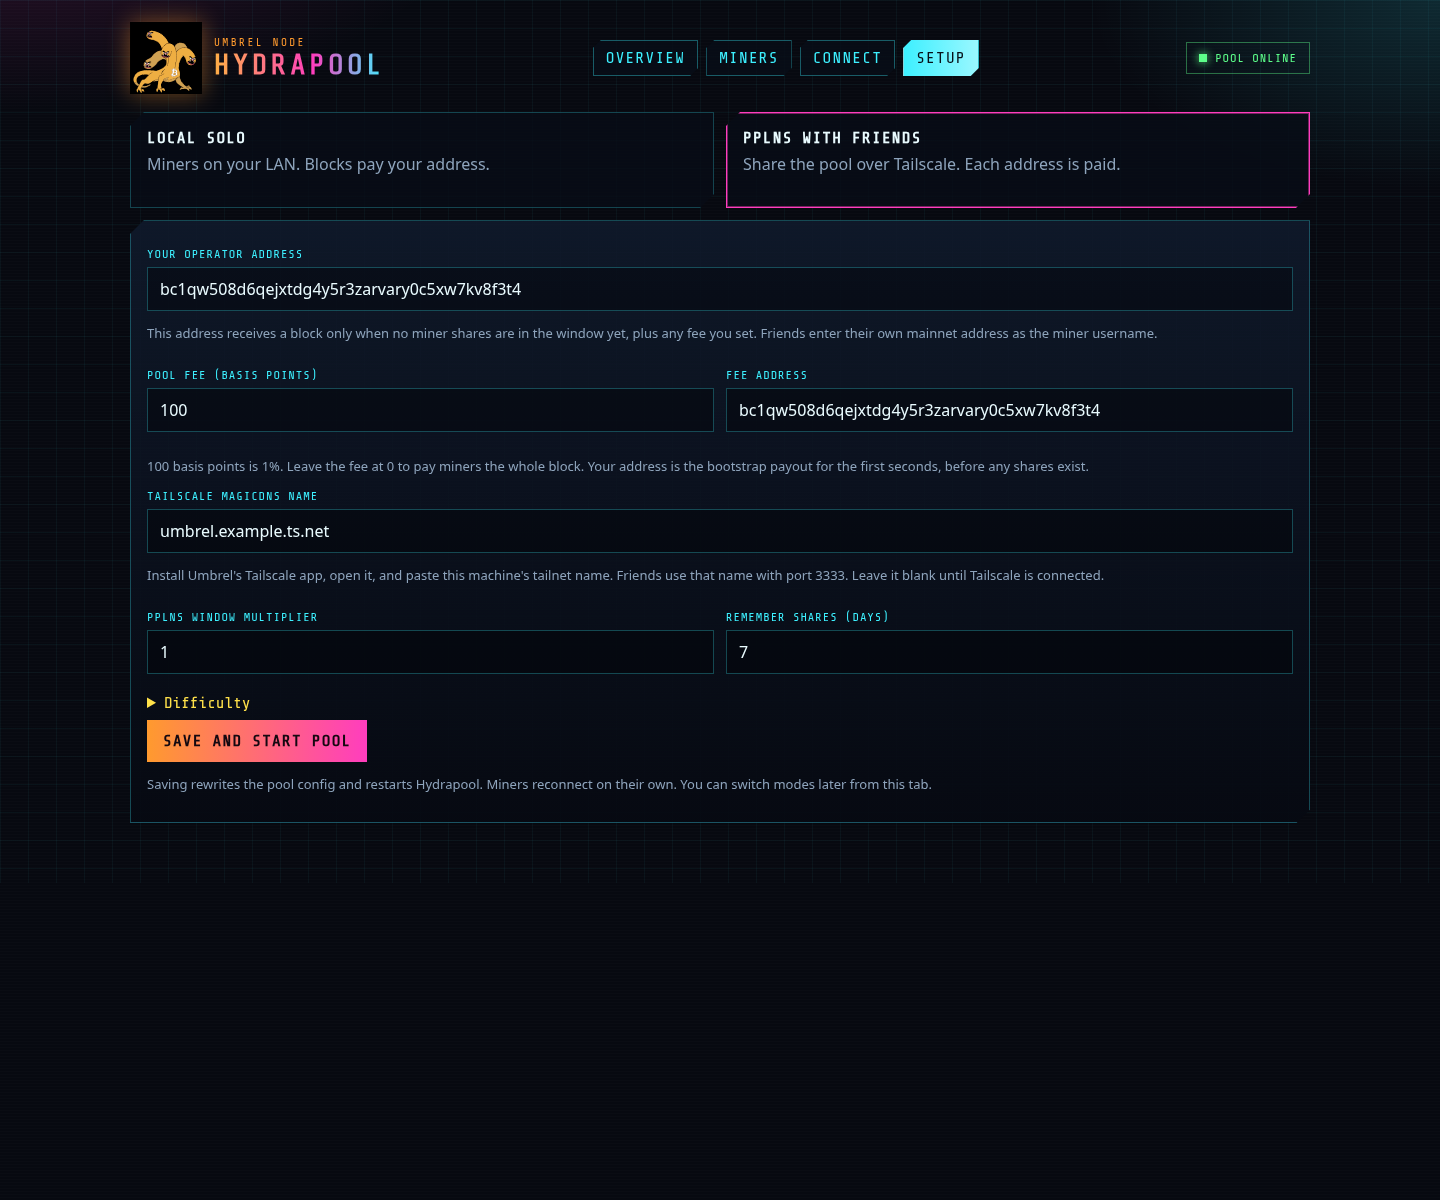
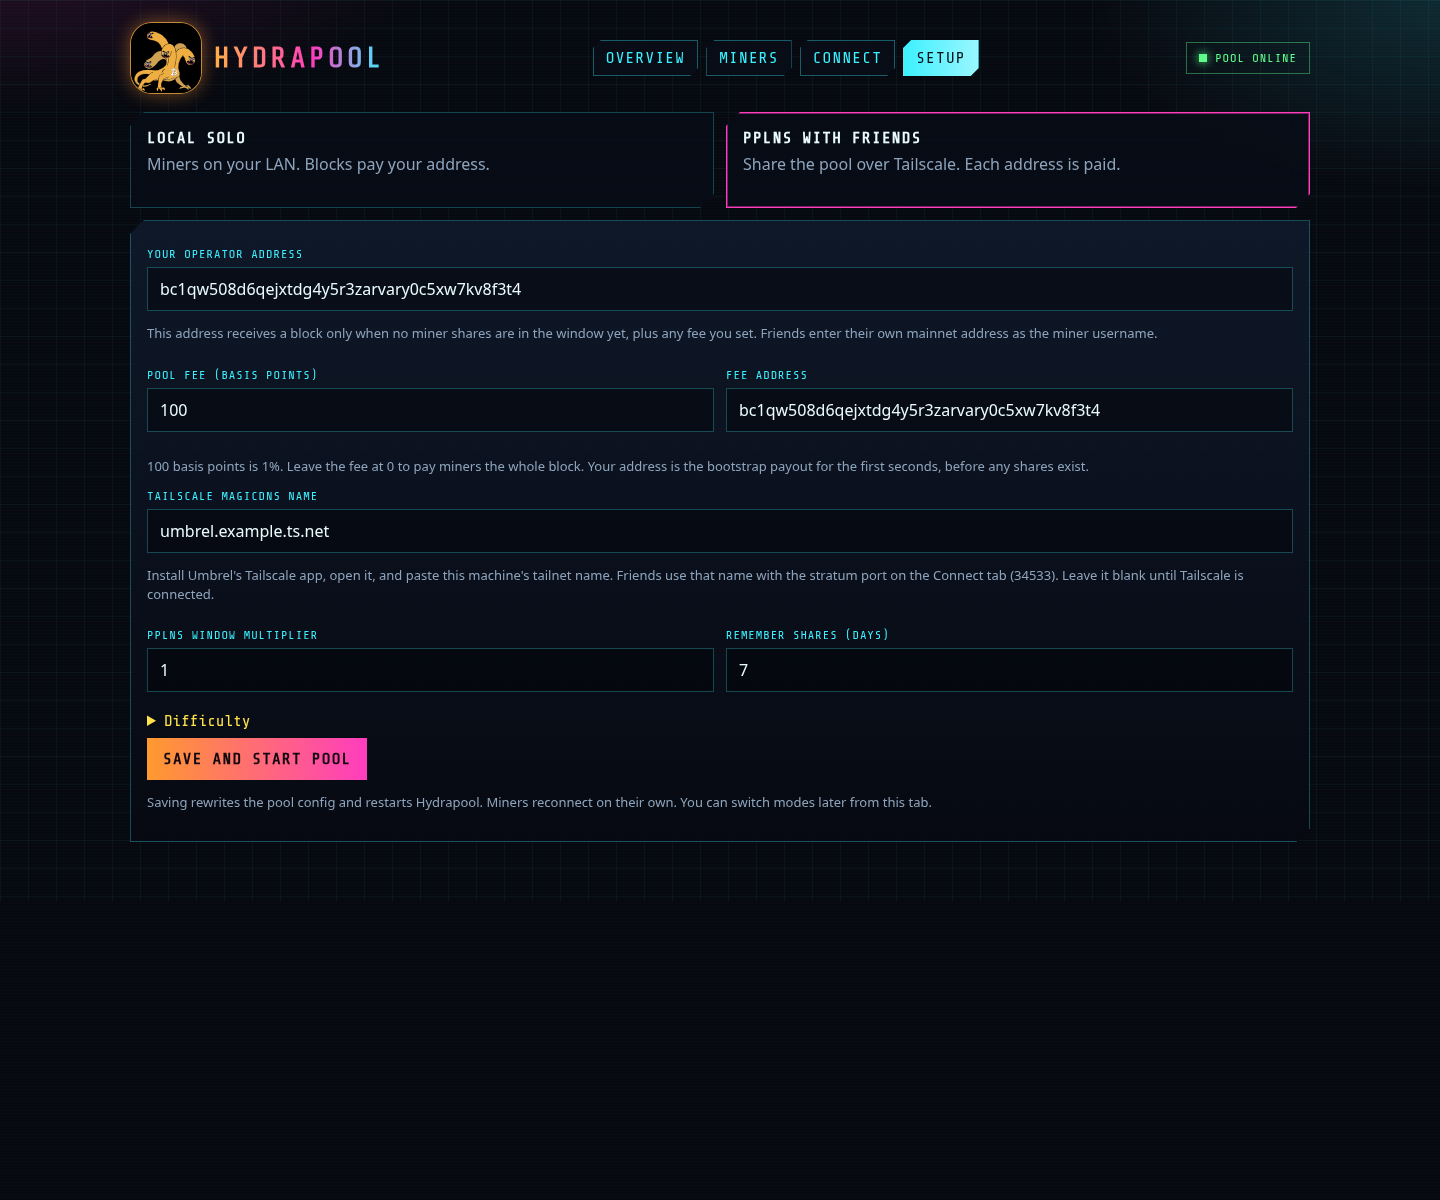
Round the Hydra mark and drop the Umbrel label (#4)
The header is only the Hydrapool wordmark. The mascot and the 256x256
app icon use the same rounded corners.

diff --git a/karpuz-hydrapool/portal/static/app.css b/karpuz-hydrapool/portal/static/app.css
@@ -80,16 +80,11 @@ button, input { font: inherit; color: inherit; }
 .mascot {
   width: 72px;
   height: 72px;
-  object-fit: contain;
-  filter: drop-shadow(0 0 12px rgba(255, 154, 46, 0.45));
-}
-
-.kicker {
-  margin: 0;
-  color: var(--orange);
-  font-family: "Share Tech Mono", ui-monospace, monospace;
-  letter-spacing: 0.22em;
-  font-size: 11px;
+  object-fit: cover;
+  border-radius: 22px;
+  background: #111;
+  border: 1px solid rgba(255, 176, 71, 0.75);
+  box-shadow: 0 0 18px rgba(255, 154, 46, 0.45);
 }
 
 h1 {

diff --git a/karpuz-hydrapool/portal/static/index.html b/karpuz-hydrapool/portal/static/index.html
@@ -13,10 +13,7 @@
       <header class="top">
         <div class="brand">
           <img class="mascot" src="mascot.svg" alt="Hydra, the orange multi-headed pool mascot" />
-          <div>
-            <p class="kicker">UMBREL NODE</p>
-            <h1>HYDRAPOOL</h1>
-          </div>
+          <h1>HYDRAPOOL</h1>
         </div>
         <nav class="tabs" aria-label="Sections">
           <button type="button" class="tab" data-tab="overview" aria-pressed="true">Overview</button>
